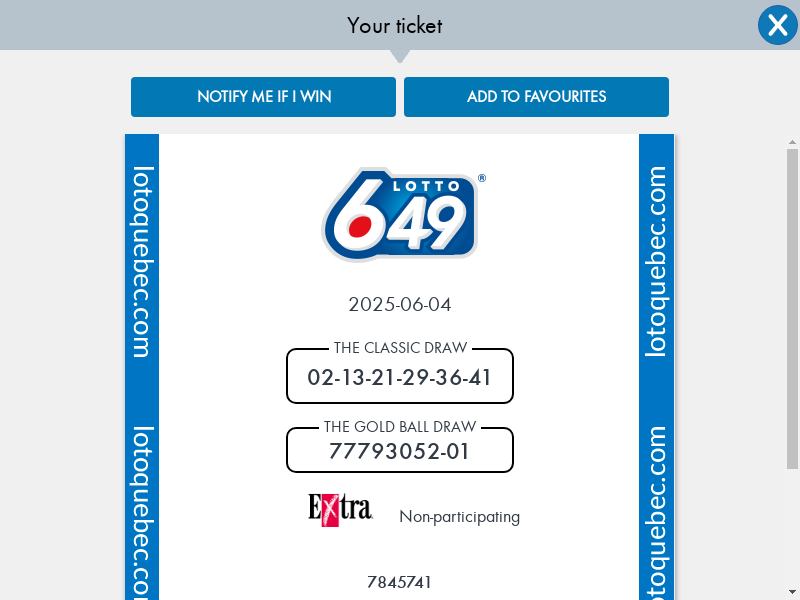
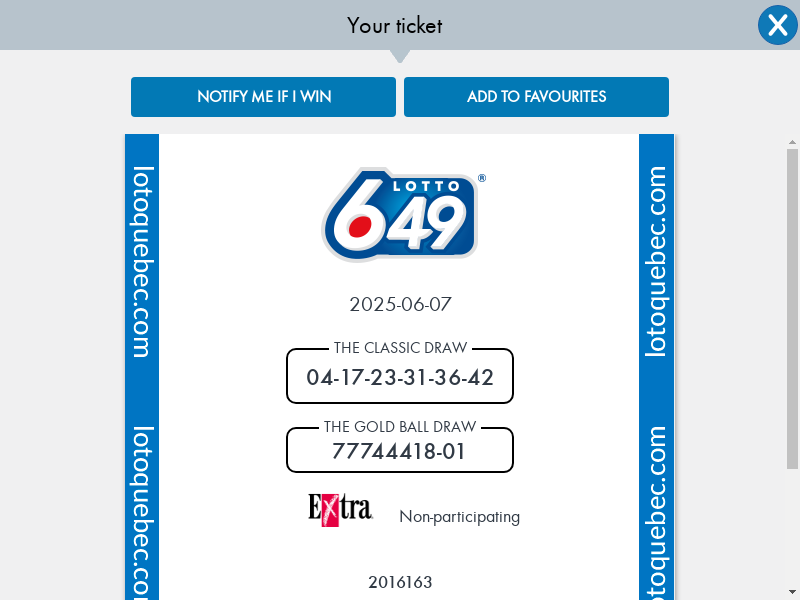
auto commit

diff --git a/docs/index.html b/docs/index.html
@@ -76,7 +76,14 @@
             </tr>
             </thead>
             <tbody>
-            <tr><td>2025-05-31</td><td>02-13-21-29-36-41</td><td>empty</td><td>{
+            <tr><td>2025-06-04</td><td>04-17-23-31-36-42</td><td>empty</td><td>{
+  "generate_nums": ["04", "17", "23", "31", "36", "42"]
+}</td></tr>
+<tr><td>2025-05-31</td><td>02-13-21-29-36-41</td><td>match 1 number, win number: The Classic Draw
+
+
+08-20-30-39-41-48 Bonus (B):
+(18)</td><td>{
   "generate_nums": ["02", "13", "21", "29", "36", "41"]
 }</td></tr>
 <tr><td>2025-05-28</td><td>04-12-21-28-35-42</td><td>match 1 number, win number: The Classic Draw
